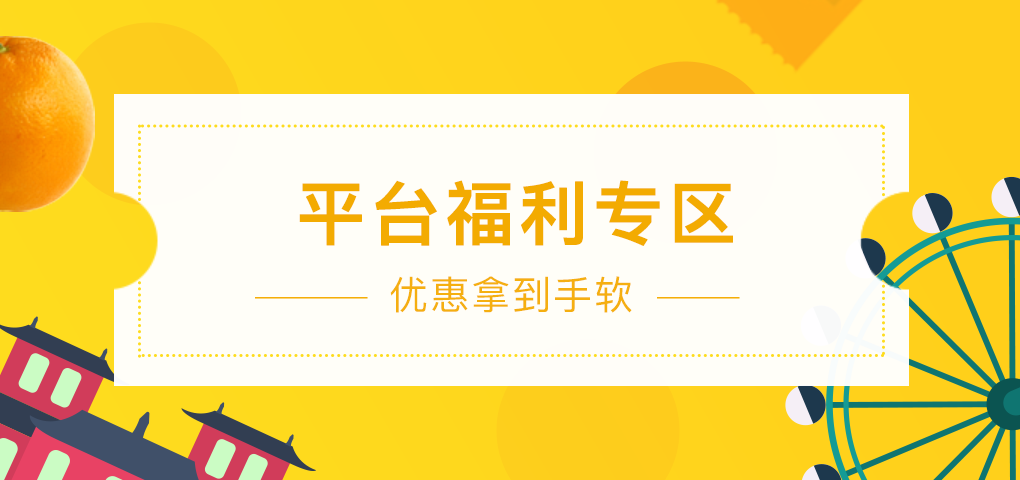
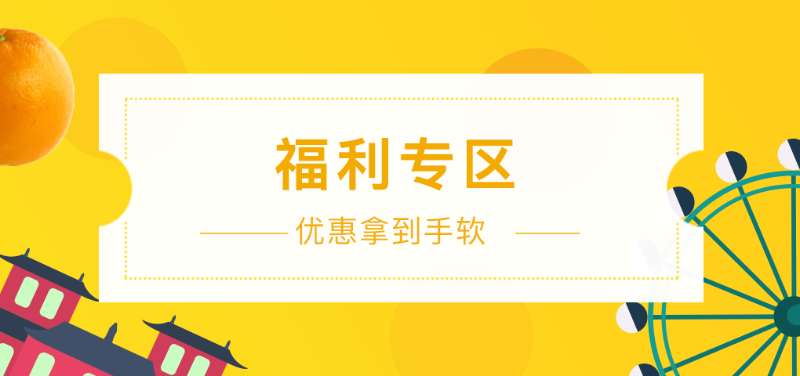
ss

diff --git a/ams/src/styles/quyou/mobilepanel.scss b/ams/src/styles/quyou/mobilepanel.scss
@@ -583,6 +583,7 @@ img {
         background-color: $color_33;
         .name{
             color: $color_ffc913;
+            font-weight: 800;
         }
         .t-down{
             position: absolute;
@@ -608,15 +609,15 @@ img {
         .name{
             // margin-top: px2rem(30px);
             color: $color_33;
-            font-size: px2rem(30px);
-            line-height: px2rem(30px);
+            font-size: px2rem(34px);
+            line-height: px2rem(34px);
            
         }
         .number{
             margin-top: px2rem(15px);
             color: $color_99;
-            font-size: px2rem(26px);
-            line-height: px2rem(26px);
+            font-size: px2rem(32px);
+            line-height: px2rem(32px);
             font-weight: 900;
         }
         

diff --git a/ams/src/pages/quyou/Mall.js b/ams/src/pages/quyou/Mall.js
@@ -67,7 +67,7 @@ export default class Index extends Quyou{
                         </a>
                     </li> */}
                     <li>
-                        <a href={ !true ? `${window.isHashHistory}/` : zenongji} className="icon big" style={{backgroundImage:`url(${stncp})`}}></a>
+                        <a href={ true ? `${window.isHashHistory}/` : ''} className="icon big" style={{backgroundImage:`url(${stncp})`}}></a>
                     </li>
                 </ul>
             </div>

diff --git a/ams/src/components/TitleBar/index.scss b/ams/src/components/TitleBar/index.scss
@@ -89,7 +89,7 @@
         }
         .title.mallfulieat{
             background-image: url('./images/mallfulieat.png');
-            width: px2rem(274px);
+            // width: px2rem(274px);
         }
         .title.guidanceeat, .title.guidance2eat{
             background-image: url('./images/guidanceeat.png');
